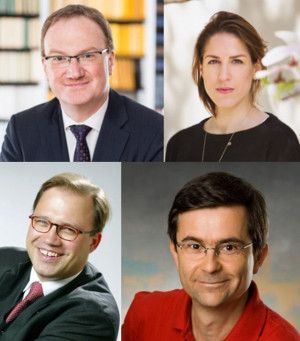
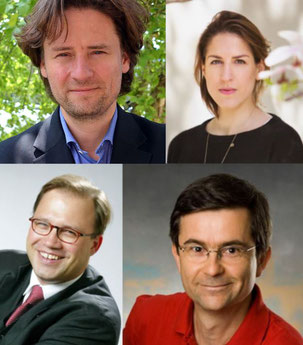
Änderung Event Demokratie

diff --git a/content/events/100179/index.md b/content/events/100179/index.md
@@ -18,25 +18,29 @@ Open debate zum Thema "Direkte Demokratie verbindet - Menschen, Vergangenheit un
 
 ### Gäste
 
-- Laura de Weck (Künstlerin)
-- Prof. Dr. Lars P. Feld (politische Ökonomie)
-- Dr. René Roca (Historiker)
-- Dr. Andreas Walker (Zukunftsforscher)
+- Laura de Weck ([Künstlerin](https://www.bzbasel.ch/kultur/buch-buehne-kunst/laura-de-weck-die-kuenstler-sind-politisch-mobilisiert-131194991))
+- Prof. Dr. Alexander Trechsel (Politikwissenschaftler)
+- Dr. René Roca ([Historiker](http://www.fidd.ch/))
+- Dr. Andreas Walker ([Zukunftsforscher](https://weiterdenken.ch/))
 
 
 ### Moderation und Live-Visualisierung
 
-- Daniel Osterwalder (https://www.visualdynamics.ch/)  
+- [Daniel Osterwalder](https://www.visualdynamics.ch/)  
 
 
 ## Inhalt
 
-Direkte Demokratie ist ein spannungsgeladenes Thema. In Deutschland gibt es eine breite Bewegung, die für mehr direkte Demokratie kämpft. In der Schweiz gehört sie zwar zum fast unhinterfragbaren Kulturgut, gleichzeitig wird sie insbesondere in Zusammenhang mit kniffligen Volksinitiativen aber dennoch auch in Frage gestellt. Selten wird jedoch offen und tiefgründig über die Thematik diskutiert. Parolen wie «Das Volk hat immer recht» und die Angst vor der Mehrheitsdiktatur stehen sich meist unversöhnlich gegenüber. Unsere Veranstaltung will hier einen Kontrapunkt setzen. Direkte Demokratie soll als komplexe politische Kultur verstanden werden, die Partizipation und Inklusion gewährleisten will. Zur direkte Demokratie im weiteren Sinn gehören eben nicht nur Referenden und Initiativen, sondern auch der Subsidiaritätsgedanken, der Non-Zentralismus, das Milizprinzip, das Mehrparteiensystem und die ausgebaute Anhörungskultur. Es ist eine multidimensionale Machtteilung über die klassische Gewaltenteilung hinaus, die auch temporal und sozial wirkt. Es geht um Pluralismus und wie man die Vielfalt auch wieder auf gute Art zusammenbringt.
+Direkte Demokratie ist ein spannungsgeladenes Thema. In Deutschland gibt es eine breite Bewegung, die für mehr direkte Demokratie kämpft. In der Schweiz gehört sie zwar zum fast unhinterfragbaren Kulturgut, gleichzeitig wird sie insbesondere in Zusammenhang mit kniffligen Volksinitiativen aber dennoch auch in Frage gestellt. Selten wird jedoch offen und tiefgründig über die Thematik diskutiert. Parolen wie «Das Volk hat immer recht» und die Angst vor der Mehrheitsdiktatur stehen sich meist unversöhnlich gegenüber.
 
-Somit möchten wir direkte Demokratie dahingehend diskutieren wie sie Menschen, Vergangenheit und Zukunft integriert und damit die gesellschaftliche Inklusion fördern kann. Das Verbindende soll im Zentrum stehen:
+Unsere Veranstaltung will hier einen Kontrapunkt setzen. Direkte Demokratie soll als komplexe politische Kultur verstanden werden, die Partizipation, Reflexion und Inklusion gewährleisten will. Zur direkten Demokratie im weiteren Sinn gehören eben nicht nur Referenden und Initiativen, sondern auch der Subsidiaritätsgedanken, der Non-Zentralismus, das Milizprinzip oder die ausgebaute Anhörungskultur. Es ist eine multidimensionale Machtteilung über die klassische Gewaltenteilung hinaus, die auch temporal und sozial wirkt. Es geht um Pluralismus und wie man die Vielfalt auch wieder auf gute Art zusammenbringt. Somit möchten wir direkte Demokratie dahingehend diskutieren wie sie Menschen, Vergangenheit und Zukunft integriert und damit die gesellschaftliche Inklusion fördern kann.
 
 - Vergangenheit-Gegenwart-Zukunft
 - Menschen-Bürger-Nichtbürger
 - Ökonomie-Gesellschaft-Kunst-Politik
 - Genossenschaftswesen-Liberalismus-Konservatismus
 - Digitale Demokratie-postmoderne Arbeitsformen-Partizipation
+
+Wir freuen uns auf euren Besuch und euren Beitrag...
+
+*Eintritt frei - Kollekte*
